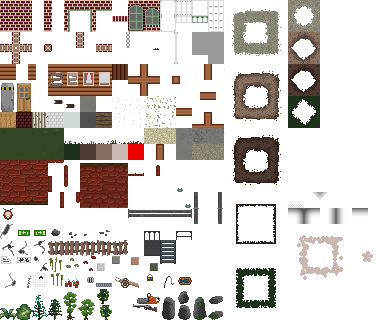
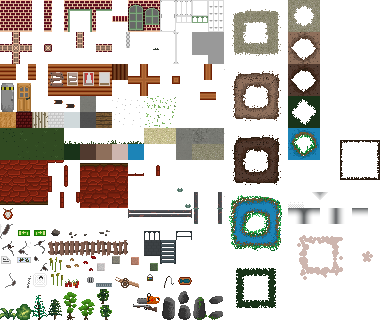
hi

diff --git a/maps/tiles-greenhouse.tsx b/maps/tiles-greenhouse.tsx
@@ -1,5 +1,5 @@
 <?xml version="1.0" encoding="UTF-8"?>
-<tileset firstgid="0" name="tiles-greenhouse" tilewidth="16" tileheight="16" tilecount="480" columns="24">
+<tileset version="1.2" tiledversion="1.3.4" name="tiles-greenhouse" tilewidth="16" tileheight="16" tilecount="480" columns="24">
  <image source="tiles-greenhouse.png" width="384" height="320"/>
  <terraintypes>
   <terrain name="DarkDirt" tile="221"/>
@@ -7,6 +7,7 @@
   <terrain name="Sand" tile="223"/>
   <terrain name="Stains" tile="223"/>
   <terrain name="Grass" tile="220"/>
+  <terrain name="Water" tile="224"/>
  </terraintypes>
  <tile id="14" terrain=",,,2"/>
  <tile id="15" terrain=",,2,2"/>
@@ -60,16 +61,21 @@
  <tile id="207" terrain=",,0,0"/>
  <tile id="208" terrain=",,0,0"/>
  <tile id="209" terrain=",,0,"/>
+ <tile id="210" terrain="5,5,5,"/>
+ <tile id="211" terrain="5,5,,5"/>
  <tile id="220" terrain="4,4,4,4"/>
  <tile id="221" terrain="0,0,0,0"/>
  <tile id="222" terrain="1,1,1,1"/>
  <tile id="223" terrain="3,3,3,3"/>
+ <tile id="224" terrain="5,5,5,5"/>
  <tile id="228" terrain="2,2,2,2"/>
  <tile id="229" terrain="2,2,2,2"/>
  <tile id="230" terrain=",0,,0"/>
  <tile id="231" terrain="0,0,0,"/>
  <tile id="232" terrain="0,0,,0"/>
  <tile id="233" terrain="0,,0,"/>
+ <tile id="234" terrain="5,,5,5"/>
+ <tile id="235" terrain=",5,5,5"/>
  <tile id="254" terrain=",0,,0"/>
  <tile id="255" terrain="0,,0,0"/>
  <tile id="256" terrain=",0,0,0"/>
@@ -78,10 +84,26 @@
  <tile id="279" terrain="0,0,,"/>
  <tile id="280" terrain="0,0,,"/>
  <tile id="281" terrain="0,,,"/>
+ <tile id="302" terrain=",,,5"/>
+ <tile id="303" terrain=",,5,5"/>
+ <tile id="304" terrain=",,5,5"/>
+ <tile id="305" terrain=",,5,"/>
+ <tile id="326" terrain=",5,,5"/>
+ <tile id="327" terrain="5,5,5,"/>
+ <tile id="328" terrain="5,5,,5"/>
+ <tile id="329" terrain="5,,5,"/>
+ <tile id="350" terrain=",5,,5"/>
+ <tile id="351" terrain="5,,5,5"/>
+ <tile id="352" terrain=",5,5,5"/>
+ <tile id="353" terrain="5,,5,"/>
  <tile id="354" terrain=",,,3"/>
  <tile id="355" terrain=",,3,3"/>
  <tile id="356" terrain=",,3,3"/>
  <tile id="357" terrain=",,3,"/>
+ <tile id="374" terrain=",5,,"/>
+ <tile id="375" terrain="5,5,,"/>
+ <tile id="376" terrain="5,5,,"/>
+ <tile id="377" terrain="5,,,"/>
  <tile id="378" terrain=",3,,3"/>
  <tile id="379" terrain="3,3,3,"/>
  <tile id="380" terrain="3,3,,3"/>

diff --git a/src/de/gurkenlabs/ldjam46/GameManager.java b/src/de/gurkenlabs/ldjam46/GameManager.java
@@ -281,14 +281,14 @@ public final class GameManager {
             tutorialActive = true;
 
             Game.loop().perform(1000, () -> {
-              tutorial("Howdy partner, let's learn how to farm, aii!").addListener(() -> {
-                tutorial("Today I've got to harvest 2 pumpkins!").addListener(() -> {
+              tutorial("Howdy partner, let's learn how to farm, aye?").addListener(() -> {
+                tutorial("Today I've got to harvest me 2 pumpkins!").addListener(() -> {
                   pumpkinCountVisible = true;
 
-                  tutorial("I gotta keep ma pumpkins alive until   6:00 PM!").addListener(() -> {
+                  tutorial("Gotta keep em pumpkins alive until        6:00 PM!").addListener(() -> {
                     clockVisible = true;
 
-                    tutorial("Let me grab ma water can first!").addListener(() -> {
+                    tutorial("Lemme grab mah water can first!").addListener(() -> {
                       LightSource light = Game.world().environment().getLightSource("canlight");
                       light.activate();
 
@@ -347,7 +347,7 @@ public final class GameManager {
     });
 
     Game.loop().perform(4000, () -> {
-      tutorial("Seems like you got it in you!").addListener(() -> {
+      tutorial("You're gettin' the hang of it!").addListener(() -> {
         tutorial("Let's see if you can handle the farm tomorrow...").addListener(() -> {
           Game.loop().perform(1000, () -> {
             endingFaded = true;
